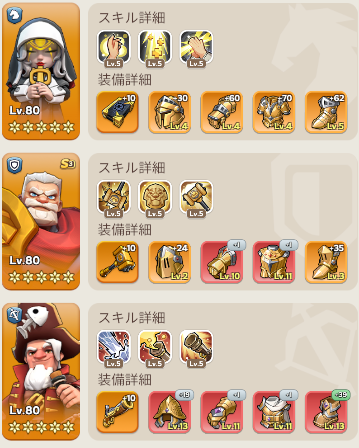
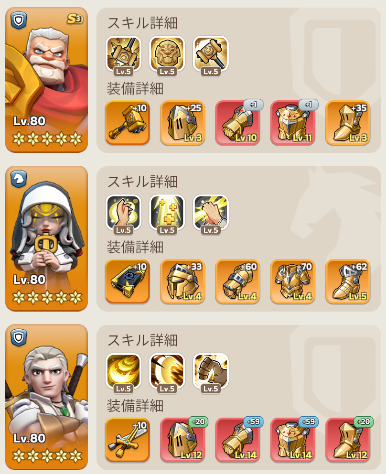
敵鯖の英雄スクショを差し替え、サムネ高さを調整
縦長スクショの見切れを減らすため、サムネイル高さを
122px→170px（スマホ100px→140px）に拡大。

diff --git a/style.css b/style.css
@@ -975,7 +975,7 @@ tr:nth-child(even) td { background: #fffaf5; }
 .gal-item img {
   display: block;
   width: 100%;
-  height: 122px;
+  height: 170px;
   object-fit: cover;
   background: var(--cream);
 }
@@ -1043,7 +1043,7 @@ tr:nth-child(even) td { background: #fffaf5; }
 
 @media (max-width: 600px) {
   .gal-grid { grid-template-columns: repeat(auto-fill, minmax(118px, 1fr)); }
-  .gal-item img { height: 100px; }
+  .gal-item img { height: 140px; }
 }
 
 /* ---------- コピーボード（駐屯フェーズ） ---------- */
